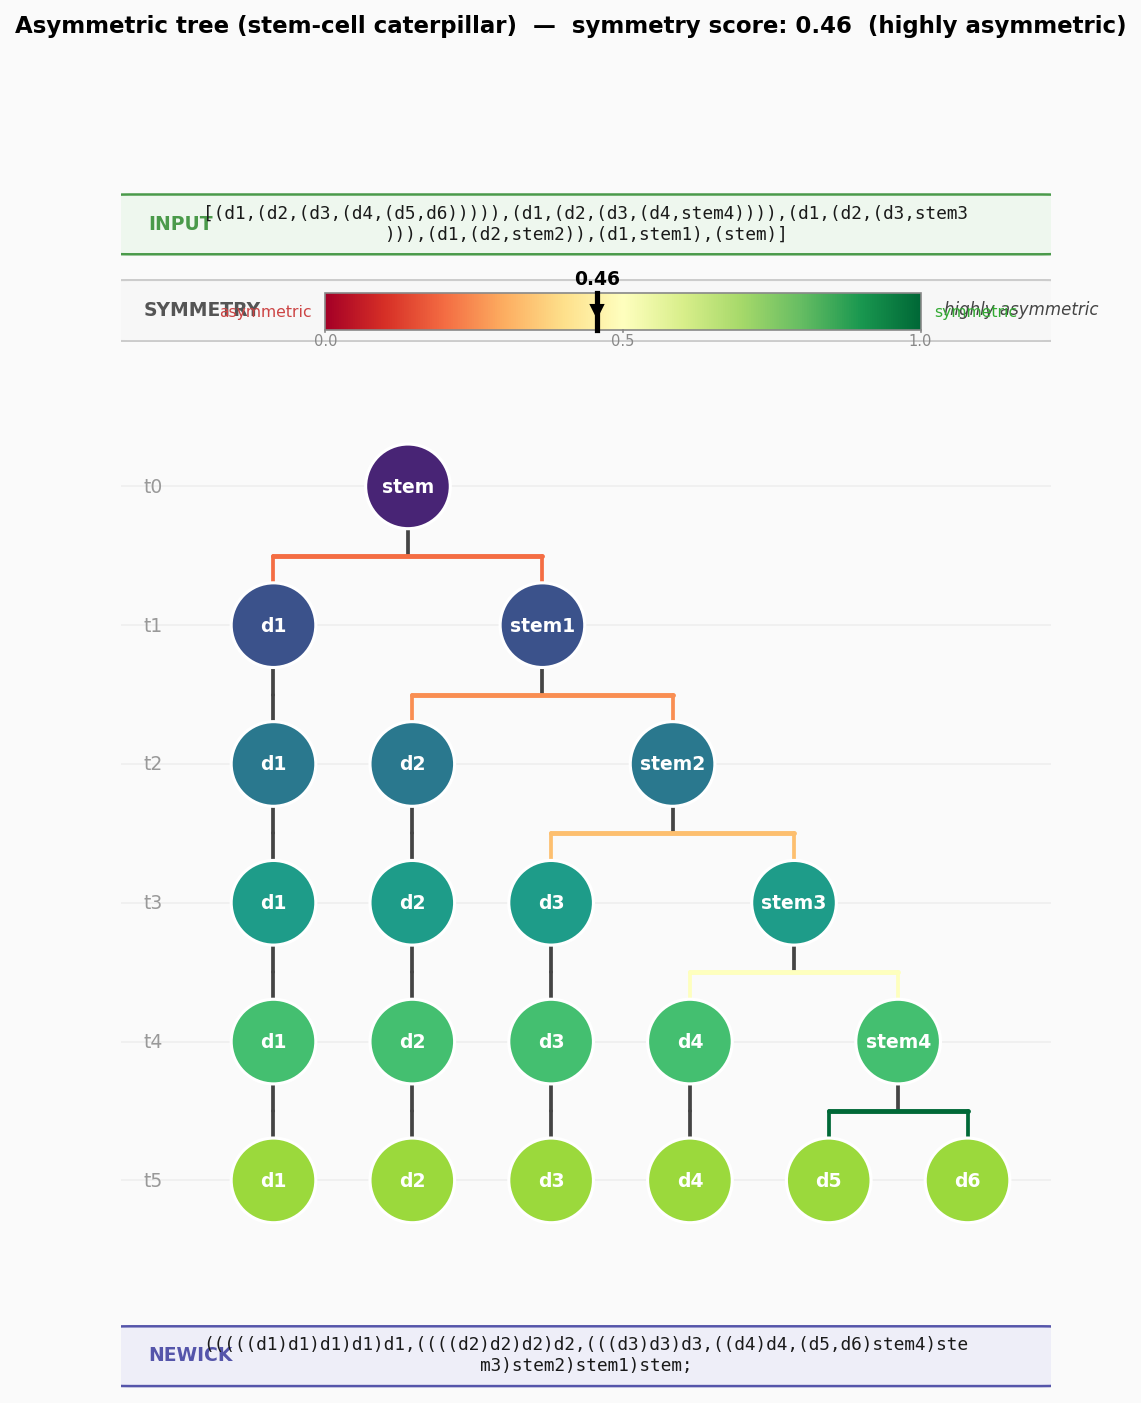
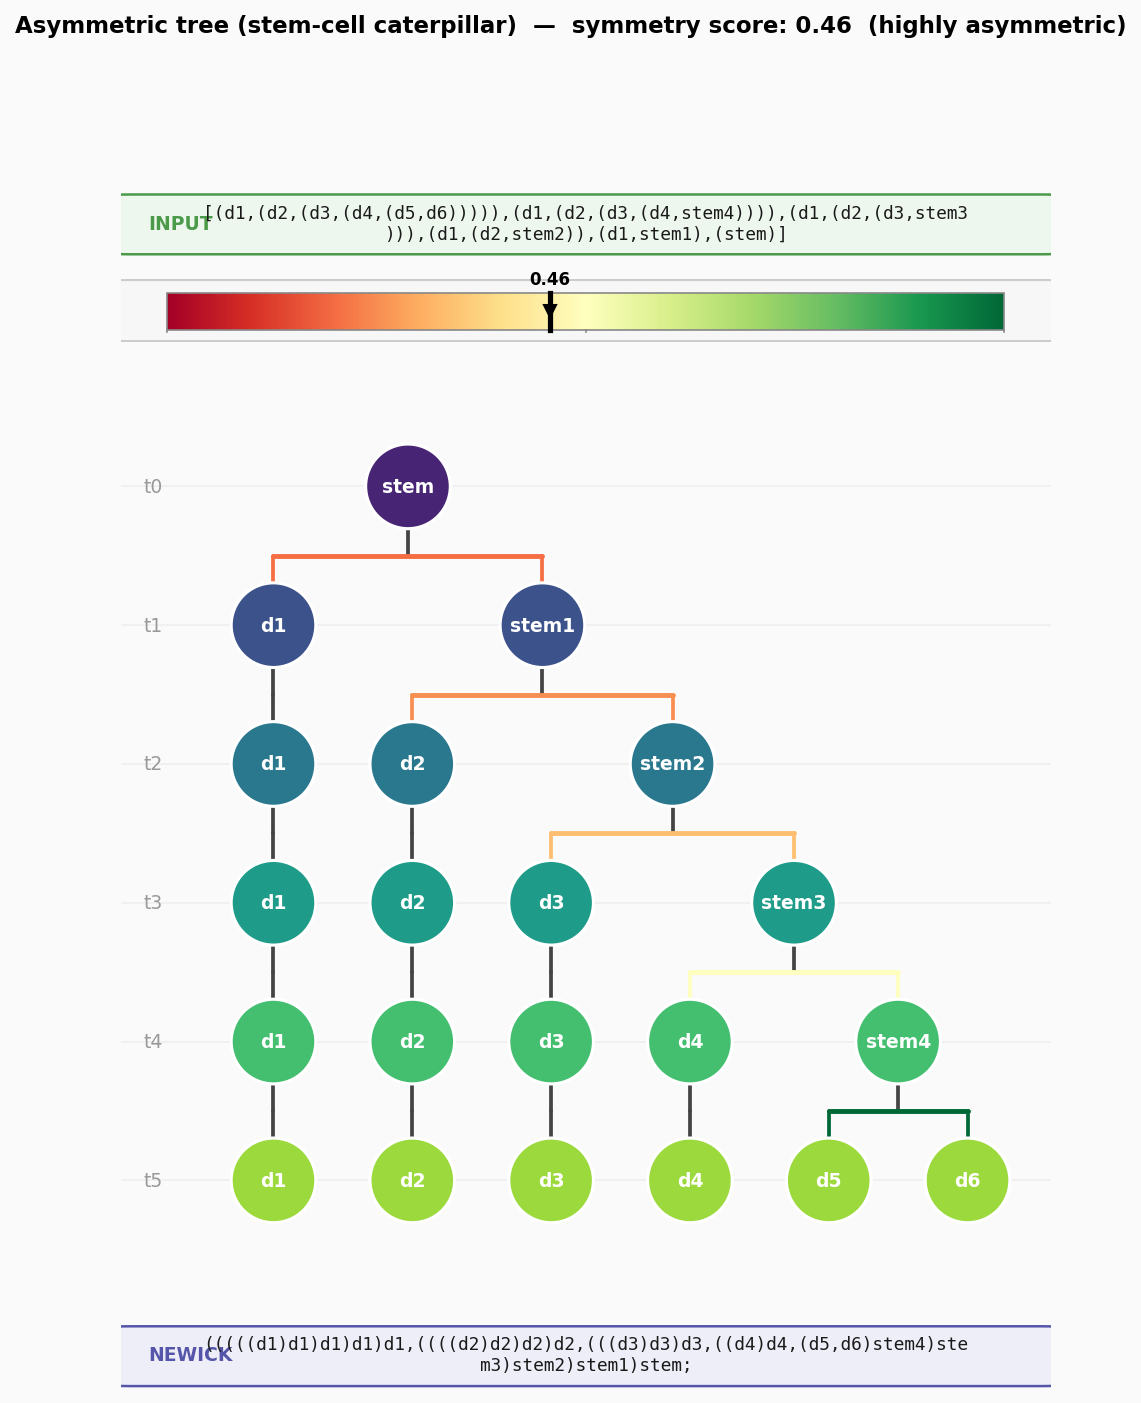
Clean up symmetry gauge: remove text labels, show only color bar
- Add show_labels=False parameter to _draw_symmetry_gauge()
- Remove 'SYMMETRY' and descriptor text from gauge panels
- Keep only the red-green gradient bar with score marker
- Eliminates overlapping text issues in comparison figure
- More intuitive visual: no labels needed, colors speak for themselves

Individual figures and comparison now cleaner and easier to read.

Changed region(s): [[0.1227, 0.1839, 0.5521, 0.2452], [0.6748, 0.1839, 0.9509, 0.2452]]

diff --git a/visualize.py b/visualize.py
@@ -105,11 +105,15 @@ def _draw_edges(ax, pos, root: TreeNode, node_ratios=None, lw=1.8):
                     solid_capstyle="round", zorder=1)
 
 
-def _draw_symmetry_gauge(ax, score: float, descriptor: str):
+def _draw_symmetry_gauge(ax, score: float, descriptor: str = "", show_labels: bool = True):
     """Draw the symmetry gauge panel.
 
-    Shows a red→green gradient bar with the score value marked on it,
-    plus a short text label (e.g. 'moderately asymmetric').
+    Shows a red→green gradient bar with the score value marked on it.
+
+    Args:
+        score: symmetry score (0-1)
+        descriptor: label like 'moderately asymmetric' (used only if show_labels=True)
+        show_labels: if True, show SYMMETRY label and descriptor text
     """
     ax.set_xlim(0, 1)
     ax.set_ylim(0, 1)
@@ -123,8 +127,8 @@ def _draw_symmetry_gauge(ax, score: float, descriptor: str):
         linewidth=1.0, transform=ax.transAxes, zorder=0,
     ))
 
-    # Gradient bar coordinates (data space, since xlim/ylim = [0,1])
-    bx0, bx1 = 0.22, 0.86
+    # Gradient bar coordinates
+    bx0, bx1 = (0.15, 0.93) if show_labels else (0.05, 0.95)
     by0, by1 = 0.20, 0.78
 
     gradient = np.linspace(0, 1, 512).reshape(1, -1)
@@ -139,8 +143,9 @@ def _draw_symmetry_gauge(ax, score: float, descriptor: str):
     for tick in [0.0, 0.5, 1.0]:
         tx = bx0 + tick * (bx1 - bx0)
         ax.plot([tx, tx], [by0 - 0.04, by0], color="#888888", lw=0.8, zorder=2)
-        ax.text(tx, by0 - 0.06, f"{tick:.1f}", ha="center", va="top",
-                fontsize=7, color="#888888")
+        if show_labels:
+            ax.text(tx, by0 - 0.06, f"{tick:.1f}", ha="center", va="top",
+                    fontsize=6.5, color="#888888")
 
     # Score marker
     mx = bx0 + score * (bx1 - bx0)
@@ -150,21 +155,22 @@ def _draw_symmetry_gauge(ax, score: float, descriptor: str):
             transform=ax.transData)
     ax.text(mx, by1 + 0.08, f"{score:.2f}",
             ha="center", va="bottom",
-            fontsize=9, fontweight="bold", color="black", zorder=4)
+            fontsize=8, fontweight="bold", color="black", zorder=4)
 
-    # End labels
-    ax.text(bx0 - 0.015, (by0 + by1) / 2, "asymmetric",
-            ha="right", va="center", fontsize=7.5, color="#cc4444")
-    ax.text(bx1 + 0.015, (by0 + by1) / 2, "symmetric",
-            ha="left", va="center", fontsize=7.5, color="#33aa33")
+    # End labels (only if show_labels)
+    if show_labels:
+        ax.text(bx0 - 0.015, (by0 + by1) / 2, "asymmetric",
+                ha="right", va="center", fontsize=7, color="#cc4444")
+        ax.text(bx1 + 0.015, (by0 + by1) / 2, "symmetric",
+                ha="left", va="center", fontsize=7, color="#33aa33")
 
-    # Panel label + descriptor
-    ax.text(0.025, 0.52, "SYMMETRY",
-            transform=ax.transAxes, ha="left", va="center",
-            fontsize=9, fontweight="bold", color="#555555", zorder=2)
-    ax.text(0.885, 0.52, descriptor,
-            transform=ax.transAxes, ha="left", va="center",
-            fontsize=8, style="italic", color="#444444", zorder=2)
+        # Panel label + descriptor
+        ax.text(0.025, 0.52, "SYMMETRY",
+                transform=ax.transAxes, ha="left", va="center",
+                fontsize=8.5, fontweight="bold", color="#555555", zorder=2)
+        ax.text(0.88, 0.52, descriptor,
+                transform=ax.transAxes, ha="left", va="center",
+                fontsize=7.5, style="italic", color="#444444", zorder=2)
 
 
 def _text_panel(ax, label, code_str, bg_color, border_color, wrap_width=72,
@@ -303,7 +309,7 @@ def visualize(input_str, output_path=None, title=None, show=False,
     _text_panel(ax_input, "INPUT", input_str, "#eef7ee", "#4a9a4a")
 
     if show_symmetry:
-        _draw_symmetry_gauge(ax_sym, score, descriptor)
+        _draw_symmetry_gauge(ax_sym, score, descriptor, show_labels=False)
 
     _draw_tree_panel(ax_tree, root, pos, max_depth, max_lbl,
                      node_ratios=node_ratios if show_symmetry else None)

diff --git a/generate_symmetry_examples.py b/generate_symmetry_examples.py
@@ -147,7 +147,8 @@ def save_comparison(examples, path, title="Symmetry comparison"):
         _text_panel(ax_newick, "NEWICK", t["newick"], "#eeeef8", "#5555aa",
                     compact=True)
 
-        _draw_symmetry_gauge(ax_gauge, t["score"], symmetry_label(t["score"]))
+        # Gauge without labels (just the color bar)
+        _draw_symmetry_gauge(ax_gauge, t["score"], show_labels=False)
 
         _draw_tree_panel(ax_tree, t["root"], t["pos"],
                          t["max_depth"], t["max_lbl"],
